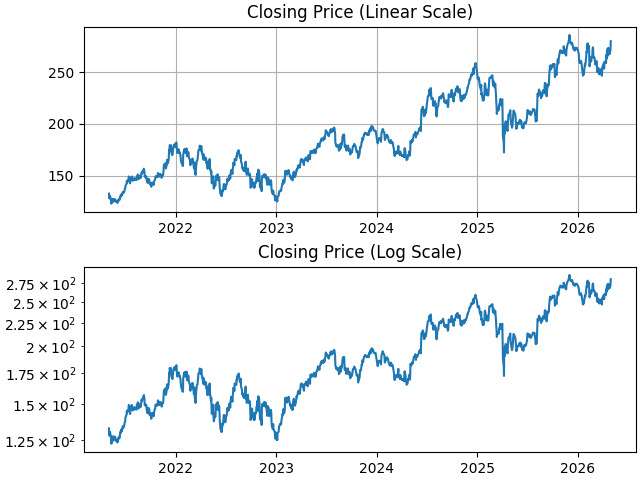
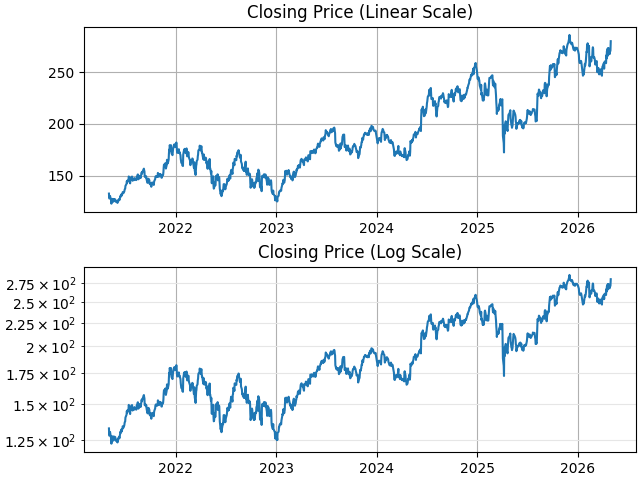
Exercise 2 - 3.

diff --git a/Chapter2/Exercises.py b/Chapter2/Exercises.py
@@ -31,9 +31,10 @@ def get_data(stock_names: list[str] | str = "") -> dict[str, pd.DataFrame]:
 
     return res
 
+STOCK_DATA = get_data()
 
 def Exercise_1():
-    data: pd.DataFrame = get_data("APPL").get("APPL")[["Date", "Close/Last"]]
+    data: pd.DataFrame = STOCK_DATA.get("APPL")[["Date", "Close/Last"]]
     dates: np.ndarray = np.array([datetime.datetime.strptime(date, "%m/%d/%Y") for date in data["Date"].to_numpy()])
     stock_data: np.ndarray = pd.to_numeric(data["Close/Last"].str.removeprefix("$")).to_numpy()
     
@@ -52,9 +53,68 @@ def Exercise_1():
     ax2.xaxis.set_major_locator(matplotlib.dates.YearLocator())
     fig.savefig("Chapter2/Plots/APPL Closing Price Exercise 2.1.png")
 
+def Exercise_2():
+    data: pd.DataFrame = STOCK_DATA.get("APPL")[["Date", "Close/Last"]]
+    dates: np.ndarray = np.array([datetime.datetime.strptime(date, "%m/%d/%Y") for date in data["Date"].to_numpy()])
+    stock_data: np.ndarray = pd.to_numeric(data["Close/Last"].str.removeprefix("$")).to_numpy()
+
+    linear_return: np.ndarray = np.true_divide(stock_data[1:], stock_data[:-1]) - 1
+    log_linear_return: np.ndarray = np.log(1 + linear_return)
+
+    fig, (ax1, ax2) = plt.subplots(2, 1, layout="constrained")
+    ax1.plot(dates[1:], linear_return)
+    ax1.set(title="Linear Return APPL")
+    ax1.grid()
+    ax1.grid(which="minor", color="0.9")
+    ax1.xaxis.set_major_locator(matplotlib.dates.YearLocator())
+
+    ax2.plot(dates[1:], log_linear_return)
+    ax2.set(title="Log Return APPL")
+    ax2.grid()
+    ax2.grid(which="minor", color="0.9")
+    ax2.yaxis.set_major_formatter(mticker.FormatStrFormatter('%.2f'))
+    ax2.xaxis.set_major_locator(matplotlib.dates.YearLocator())
+    fig.savefig("Chapter2/Plots/APPL Returns Exercise 2.2.png")
+
+def Exercise_3():
+    data: pd.DataFrame = STOCK_DATA.get("APPL")[["Date", "Close/Last"]]
+    dates: np.ndarray = np.array([datetime.datetime.strptime(date, "%m/%d/%Y") for date in data["Date"].to_numpy()])
+    stock_data: np.ndarray = pd.to_numeric(data["Close/Last"].str.removeprefix("$")).to_numpy()
+
+    def get_volatility_left_align(stock_data: np.ndarray, k: int = 10):
+        squared_return: np.ndarray = np.square(np.true_divide(stock_data[1:], stock_data[:-1]) - 1)
+        volatility: np.ndarray = np.array([np.mean(squared_return[i:i+k]) for i in range(len(squared_return) - k)])
+        return np.sqrt(volatility)
+
+    def get_volatility_centered_window(stock_data: np.ndarray, k: int = 10):
+        squared_return: np.ndarray = np.square(np.true_divide(stock_data[1:], stock_data[:-1]) - 1)
+        volatility: np.ndarray = np.array([np.mean(squared_return[t - int(k / 2) : t + int(k / 2)]) for t in range(int(k/2), len(squared_return)+int(k/2))])
+        return np.sqrt(volatility)
+    
+    for k in [2, 4, 6, 8, 10, 20]:
+        left_volatility = get_volatility_left_align(stock_data, k)
+        centered_volatility = get_volatility_centered_window(stock_data, k)
+        fig, (ax1, ax2) = plt.subplots(2, 1, layout="constrained")
+        ax1.plot(dates[:len(left_volatility)], left_volatility)
+        ax1.set(title="Left Aligned Volatility APPL")
+        ax1.grid()
+        ax1.grid(which="minor", color="0.9")
+        ax1.xaxis.set_major_locator(matplotlib.dates.YearLocator())
+
+        ax2.plot(dates[:len(centered_volatility)], centered_volatility)
+        ax2.set(title="Centered Volatility APPL")
+        ax2.grid()
+        ax2.grid(which="minor", color="0.9")
+        ax2.yaxis.set_major_formatter(mticker.FormatStrFormatter('%.2f'))
+        ax2.xaxis.set_major_locator(matplotlib.dates.YearLocator())
+        fig.savefig(f"Chapter2/Plots/APPL Volatilities k = {k} 2.3.png")
 
 def main():
-    exercises: list[Callable] = [Exercise_1]
+    exercises: list[Callable] = [
+        Exercise_1,
+        Exercise_2,
+        Exercise_3
+        ]
     for exercise in exercises:
         print(exercise.__name__)
         exercise()